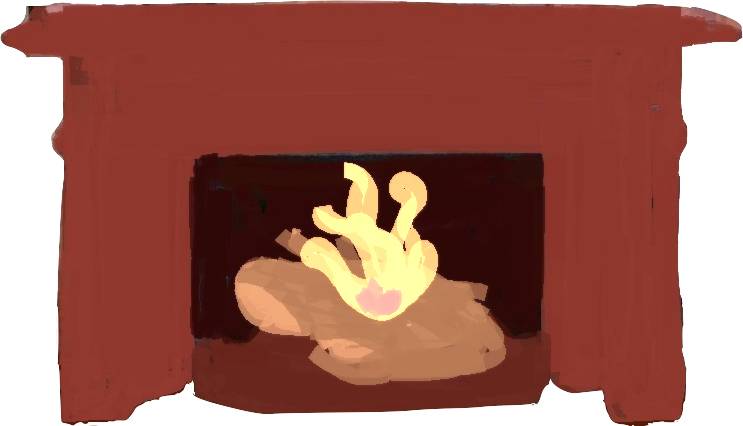
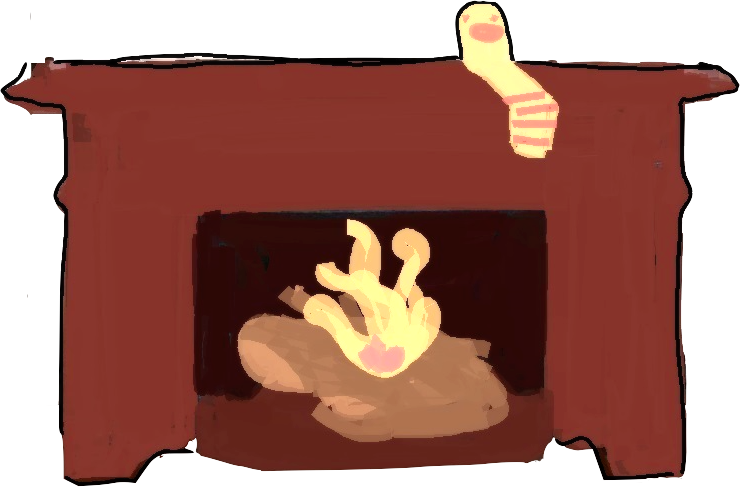
Insert erecting sock puppet.

Changed region(s): [[0.0, 0.0, 1.0, 1.0], [0.5905, 0.885, 0.6216, 0.9155], [0.3108, 0.7324, 0.3419, 0.7629]]

diff --git a/_pages/index.html b/_pages/index.html
@@ -9,35 +9,35 @@
   </style>
 	<div class="bookshelf">
 		<a class = "button" href= "books.html">
-			<img src="../_assets/images/interactable/shelf-icon.png" align="left" alt="To Bookshelf">
+			<img src="../_assets/images/interactable/shelf-icon.png" class="icon" align="left" alt="To Bookshelf">
 			<img src="../_assets/images/interactable/shelf-activ.png" class="activ" align="left" alt="Bookshelf on hover">
 		</a>
 	</div><!--this goes on the bookshelf-->
 
 	<div class="pictures">
 		<a class = "button" href= "pictures.html">
-			<img src="../_assets/images/interactable/wall-icon.png" alt="To Pictures">
+			<img src="../_assets/images/interactable/wall-icon.png" class="icon" alt="To Pictures">
 			<img src="../_assets/images/interactable/wall-activ.png" class="activ" alt="Pictures on hover">
 		</a>
 	</div><!--this goes on the wall with pictures-->
 
 	<div class="egypt-box">
 		<a class = "button" href= "box.html">
-			<img src="../_assets/images/interactable/box-icon.png" alt="To Egyptian Box">
+			<img src="../_assets/images/interactable/box-icon.png" class="icon" alt="To Egyptian Box">
 			<img src="../_assets/images/interactable/box-activ.png" class="activ" alt="Egyptian Box on hover">
 		</a>
 	</div><!--this goes on the box in the corner-->
 
 	<div class="drawers">
 		<a class = "button" href= "drawer.html">
-			<img src="../_assets/images/interactable/drawers-icon.png" alt="To Drawers">
+			<img src="../_assets/images/interactable/drawers-icon.png" class="icon" alt="To Drawers">
 			<img src="../_assets/images/interactable/drawers-activ.png" class="activ" alt="Drawers on hover">
 		</a>
 	</div><!--this goes on the drawer-->
 
 	<div class="fireplace">
 		<a class = "button" href= "skit.html">
-			<img src="../_assets/images/interactable/fireplace-icon.png" alt="To fireside story">
+			<img src="../_assets/images/interactable/fireplace-icon.png" class="icon" alt="To fireside story">
 			<img src="../_assets/images/interactable/fireplace-activ.png" class="activ" alt="Story time on hover">
 		</a>
 	</div><!--this goes on the fireplace-->

diff --git a/_assets/stylesheets/page.css b/_assets/stylesheets/page.css
@@ -58,15 +58,15 @@
 
 .fireplace {
 	position: fixed;
-	bottom: 5.3vh;
-	right: 33.5vw;
-	height: 39.1vh;
-	width: 38.7vw;
+	bottom: 5.2vh;
+	right: 33.6vw;
+	height: 44.5vh;
+	width: 38.9vw;
 }
 
 .fireplace img{
-	height: 39.1vh;
-	width: 38.7vw;
+	height: 44.5vh;
+	width: 38.9vw;
 }
 
 .presentation {

diff --git a/_assets/stylesheets/buttons.css b/_assets/stylesheets/buttons.css
@@ -14,3 +14,7 @@
 .button:hover .activ {
     display: inline;
 }
+
+.button:hover .icon{
+	display: none;
+}
